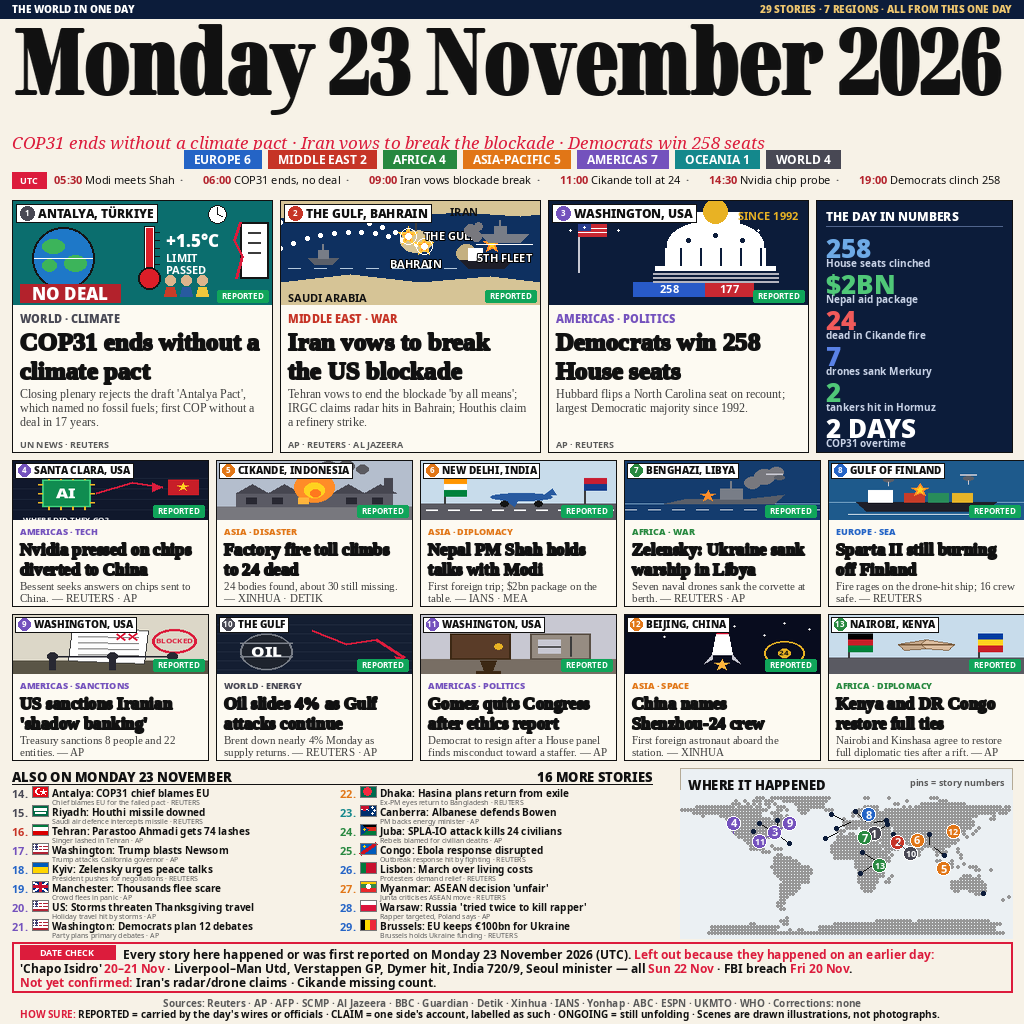
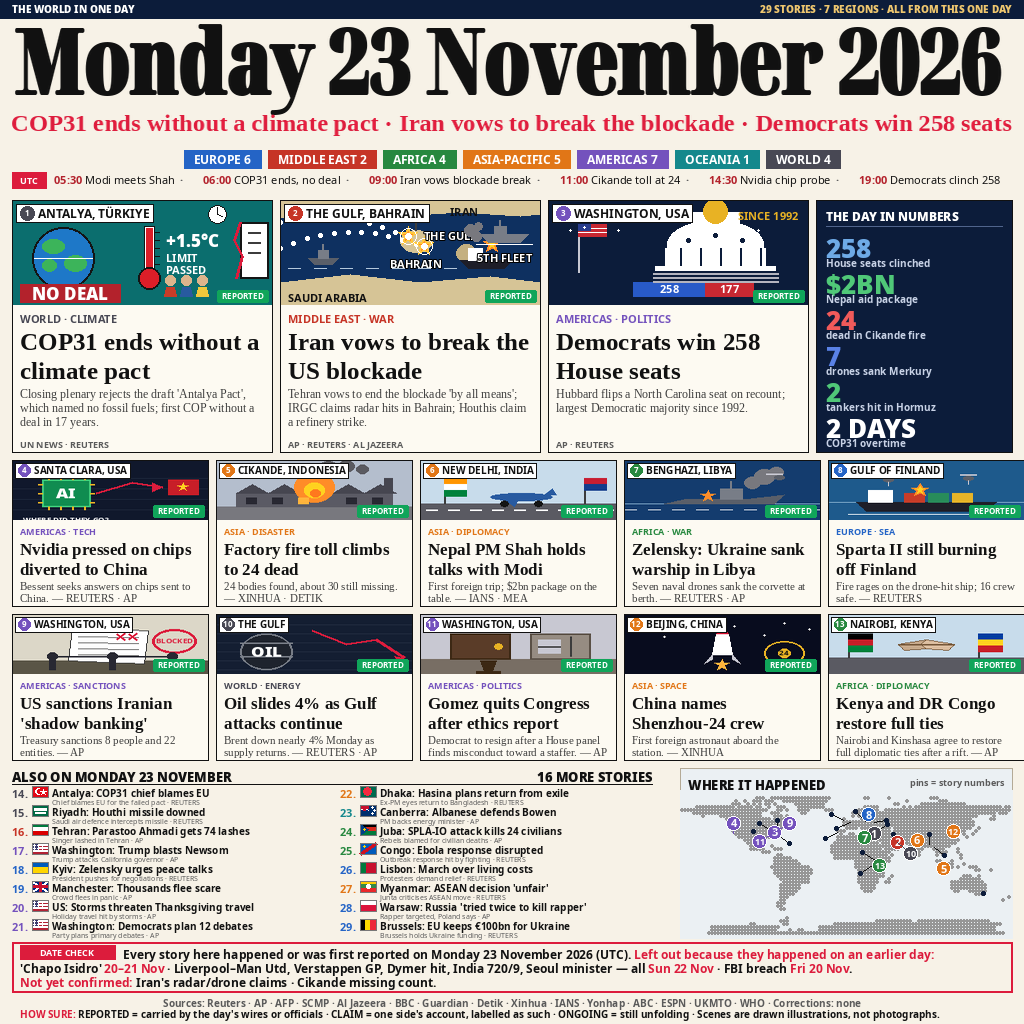
news-image-20261123 v3.5: bold only masthead + red kicker, kicker up and full width
- Bold ONLY on Monday masthead (Didone Black + stroke) and the red
  kicker (LiberationSerif-Bold 23); reverts the v3.4 bold pass:
  1px stroke removed from hero/small headlines, place labels and
  REGION.TOPIC labels back to NotoSans-Bold (not Black), headline
  wrap widths restored.
- Red kicker moved up (ink top y=114, masthead ink ends 110) and
  enlarged to fill the full width left-to-right: rendered on a
  layer, cropped to ink, stretched to exactly 1000px (MX..RX),
  one line, measured x 12..1010.

diff --git a/draw.py b/draw.py
@@ -1,23 +1,22 @@
 #!/usr/bin/env python3
-"""Front page for Monday 23 November 2026 — v3.4.
+"""Front page for Monday 23 November 2026 — v3.5.
 
-Exact-detail revision of v3.3 on the sum-22 top-1 (bagarte,
-final #1) layout, all seven points measured from the reference:
-(1) the masthead date is BOLD (Didone Black + 2px stroke);
-(2) every place+country label is a COMPACT white box fitted to
-the text length only, placed at the top-left INSIDE its picture
-(art rearranged so the top-left is clear); (3) the COP31 top is
-clean — globe and thermometer lowered clear of the label, the
-wall clock moved to the top-right and visible; (4) headlines,
-place labels and topic labels are bold (headlines carry a 1px
-stroke, like bagarte's heavy type); (5) the UTC row is LIGHT
-again — a small RED "UTC" box only, red bold times, dark events,
-ending at x=1000 before the right grey border line; (6) "WHERE
-IT HAPPENED" sits INSIDE the map panel (bagarte); (7) every
-also-list item (14-29) has a small grey sub-line (detail +
-source) below its main line, like bagarte. The pictures are
-flat vector shapes drawn here, the words are written here;
-nothing is photographed, pasted, or copied in.
+Exact-detail revision of v3.4 on the sum-22 top-1 (bagarte,
+final #1) layout, two points, following the user's order
+literally (it reverses the v3.4 bold pass):
+(1) BOLD only on the "Monday 23 November 2026" masthead
+(Didone Black + 2px stroke) and on the RED kicker line —
+every other text is NOT bold: the v3.4 1px stroke is removed
+from the hero/small headlines, the place+country labels and
+the "REGION · TOPIC" labels are back to NotoSans-Bold (not
+Black), and the headline wrap widths are restored;
+(2) the red kicker is moved UP close under the masthead
+(ink top y=114, the masthead ink ends at 110) and enlarged
+to fill the full width left-to-right (LiberationSerif-Bold
+23, stretched to exactly 1000px, MX..RX, one line).
+The pictures are flat vector shapes drawn here, the words
+are written here; nothing is photographed, pasted, or
+copied in.
 
 Renders entry.png (1024x1024, byte-stable) from world.geo.json.
 Usage: python3 draw.py
@@ -86,8 +85,10 @@ class TY:
     # bagarte's masthead (86px), when squeezed to 996 wide.
     mast = _load("NotoSerifDisplay-Black.ttf", 88, NOTO)
     kick = _load("NotoSans-Black.ttf", 10, NOTO)
-    kicksm = _load("NotoSans-Bold.ttf", 10, NOTO)
-    deck = _load("NotoSerif-Italic.ttf", 17, NOTO)
+    # v3.5: the red kicker is the ONLY bold serif besides the
+    # masthead — LiberationSerif-Bold 23, stretched to fill the
+    # full 1000px width (natural width 975px at 23px).
+    kickbold = _load("LiberationSerif-Bold.ttf", 23, LIBER)
     clock = _load("NotoSans-Bold.ttf", 12, NOTO)
     clocksm = _load("NotoSans-Bold.ttf", 11, NOTO)
     tl = _load("NotoSans-Bold.ttf", 11, NOTO)
@@ -109,8 +110,8 @@ class TY:
     amidsm = _load("NotoSans-Bold.ttf", 11, NOTO)
     hlab = _load("NotoSans-Black.ttf", 16, NOTO)
     hlabsm = _load("NotoSans-Bold.ttf", 9, NOTO)
-    slab = _load("NotoSans-Black.ttf", 12, NOTO)
-    slab10 = _load("NotoSans-Black.ttf", 10, NOTO)
+    slab = _load("NotoSans-Bold.ttf", 12, NOTO)
+    slab10 = _load("NotoSans-Bold.ttf", 10, NOTO)
     slabssm = _load("NotoSans-Bold.ttf", 8, NOTO)
     also = _load("NotoSans-Bold.ttf", 11, NOTO)
     also10 = _load("NotoSans-Bold.ttf", 10, NOTO)
@@ -123,8 +124,8 @@ class TY:
     numbig = _load("NotoSans-Black.ttf", 26, NOTO)
     numlab = _load("NotoSans-Bold.ttf", 10, NOTO)
     numtitle = _load("NotoSans-Black.ttf", 12, NOTO)
-    topic = _load("NotoSans-Black.ttf", 11, NOTO)
-    topicsm = _load("NotoSans-Black.ttf", 9, NOTO)
+    topic = _load("NotoSans-Bold.ttf", 11, NOTO)
+    topicsm = _load("NotoSans-Bold.ttf", 9, NOTO)
     bignum = _load("NotoSans-Black.ttf", 30, NOTO)
 
 
@@ -888,7 +889,7 @@ def topbar(d, x, y, w, num, place, country, region, vtag, font,
     f = font
     while d.textlength(label, font=f) > w - 40 and f.size > 8:
         f = ImageFont.truetype(
-            os.path.join(NOTO, "NotoSans-Black.ttf"), f.size - 1)
+            os.path.join(NOTO, "NotoSans-Bold.ttf"), f.size - 1)
     tw = int(d.textlength(label, font=f))
     bw = pad + discr * 2 + 4 + tw + pad
     bx, by = x + pad, y + pad
@@ -934,12 +935,11 @@ def hero_card(img, d, story, x, y, w):
     txt(d, (x + 8, ty),
         "%s · %s" % (region_label(region), topic), TY.topic,
         REGION_COLOUR[region])
-    hl = wrap(d, head, TY.hhead, w - 20, 3)
+    hl = wrap(d, head, TY.hhead, w - 16, 3)
     dl = wrap(d, deck, TY.hdeck, w - 16, 3)
     hy = ty + 16
     for j, ln in enumerate(hl):
-        txt(d, (x + 8, hy + j * 29), ln, TY.hhead, BLACK, stroke=1,
-            stroke_fill=BLACK)
+        txt(d, (x + 8, hy + j * 29), ln, TY.hhead, BLACK)
     dy = hy + len(hl) * 29 + 2
     for j, ln in enumerate(dl):
         txt(d, (x + 8, dy + j * 14), ln, TY.hdeck, (60, 60, 60))
@@ -967,10 +967,9 @@ def small_card(img, d, story, x, y):
     txt(d, (x + 8, ty),
         "%s · %s" % (region_label(region), topic), TY.topicsm,
         REGION_COLOUR[region])
-    hl = wrap(d, head, TY.shead, w - 20, 2)
+    hl = wrap(d, head, TY.shead, w - 16, 2)
     for j, ln in enumerate(hl):
-        txt(d, (x + 8, ty + 14 + j * 20), ln, TY.shead, BLACK,
-            stroke=1, stroke_fill=BLACK)
+        txt(d, (x + 8, ty + 14 + j * 20), ln, TY.shead, BLACK)
     dl = wrap(d, deck + " — " + src, TY.sdeck, w - 16, 2)
     for j, ln in enumerate(dl):
         txt(d, (x + 8, ty + 15 + len(hl) * 20 + j * 12), ln,
@@ -1104,10 +1103,21 @@ def build():
     ink_top = layer.getbbox()[1]
     layer = layer.resize((996, 150), Image.LANCZOS)
     img.paste(layer, (MX, 24 - ink_top), layer)
-    # ---- red kicker 130-148: the three leads, italic serif. ----
-    txt(d, (MX, 130),
-        "COP31 ends without a climate pact · Iran vows to break the "
-        "blockade · Democrats win 258 seats", TY.deck, SCARLET)
+    # ---- red kicker: BOLD (the only bold serif besides the
+    # masthead), moved UP close under the masthead and enlarged
+    # to fill the full width left-to-right (MX..RX, 1000px).
+    # Rendered on a layer at LiberationSerif-Bold 23 (natural
+    # width 975px), cropped to its ink, then stretched to exactly
+    # 1000px wide and pasted so the ink top sits at y=114 (the
+    # masthead ink ends at 110; the region bar is at 150).
+    kicker = ("COP31 ends without a climate pact · Iran vows to "
+              "break the blockade · Democrats win 258 seats")
+    klayer = Image.new("RGBA", (1100, 60), (0, 0, 0, 0))
+    kd = ImageDraw.Draw(klayer)
+    kd.text((0, 0), kicker, font=TY.kickbold, fill=SCARLET + (255,))
+    kb = klayer.getbbox()
+    kcrop = klayer.crop(kb).resize((1000, kb[3] - kb[1]), Image.LANCZOS)
+    img.paste(kcrop, (MX, 114), kcrop)
     # ---- region bar 150-168: seven SEPARATE boxes, 18px tall with
     # 12px text (bagarte's size), each sized to its text with
     # wider padding, ~7px white gaps, the whole row centred
